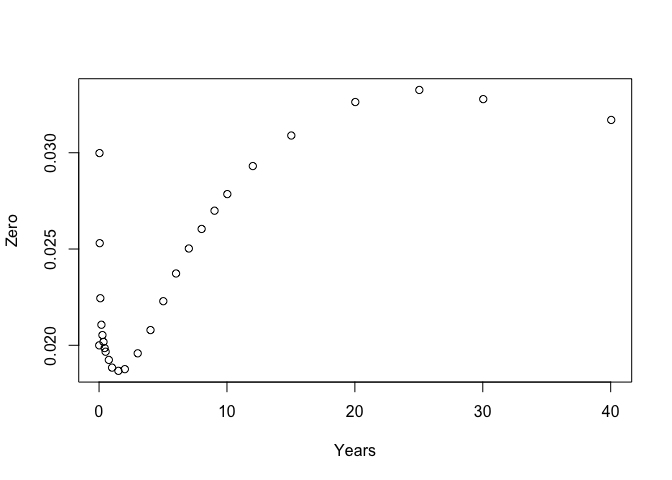
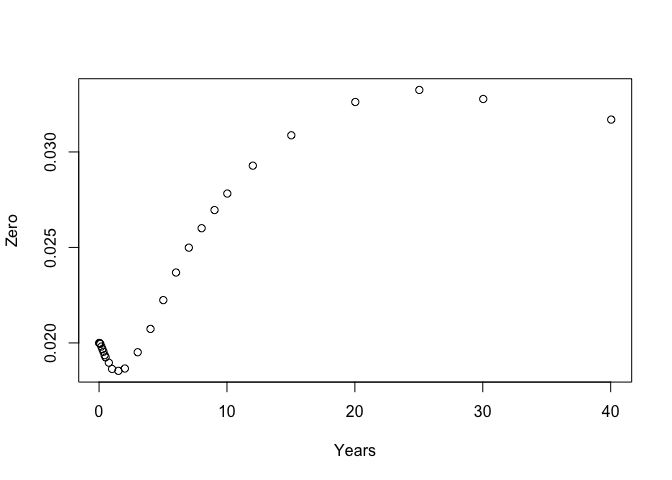
Rebuild README

diff --git a/README.md b/README.md
@@ -1,16 +1,26 @@
 
 <!-- README.md is generated from README.Rmd. Please edit that file -->
-fmbasics - Financial Market Building Blocks
-===========================================
 
-[![CRAN\_Status\_Badge](https://www.r-pkg.org/badges/version/fmbasics)](https://cran.r-project.org/package=fmbasics) [![Travis-CI Build Status](https://travis-ci.org/imanuelcostigan/fmbasics.svg?branch=master)](https://travis-ci.org/imanuelcostigan/fmbasics) [![AppVeyor Build Status](https://ci.appveyor.com/api/projects/status/github/imanuelcostigan/fmbasics?branch=master&svg=true)](https://ci.appveyor.com/project/imanuelcostigan/fmbasics) [![Coverage Status](https://img.shields.io/codecov/c/github/imanuelcostigan/fmbasics/master.svg)](https://codecov.io/github/imanuelcostigan/fmbasics?branch=master)
+# fmbasics - Financial Market Building Blocks
 
-Implements basic financial market objects like currencies, currency pairs, interest rates and interest rate indices. You will be able to use Benchmark instances of these objects which have been defined using their most common conventions or those defined by International Swap Dealer Association (ISDA, <https://www.isda.org>) legal documentation.
+[![CRAN\_Status\_Badge](https://www.r-pkg.org/badges/version/fmbasics)](https://cran.r-project.org/package=fmbasics)
+[![Travis-CI Build
+Status](https://travis-ci.org/imanuelcostigan/fmbasics.svg?branch=master)](https://travis-ci.org/imanuelcostigan/fmbasics)
+[![AppVeyor Build
+Status](https://ci.appveyor.com/api/projects/status/github/imanuelcostigan/fmbasics?branch=master&svg=true)](https://ci.appveyor.com/project/imanuelcostigan/fmbasics)
+[![Coverage
+Status](https://img.shields.io/codecov/c/github/imanuelcostigan/fmbasics/master.svg)](https://codecov.io/github/imanuelcostigan/fmbasics?branch=master)
 
-Basic objects
--------------
+Implements basic financial market objects like currencies, currency
+pairs, interest rates and interest rate indices. You will be able to use
+Benchmark instances of these objects which have been defined using their
+most common conventions or those defined by International Swap Dealer
+Association (ISDA, <https://www.isda.org>) legal documentation.
 
-You can create instances of key currencies and currency pairs (and of course create your own implementations):
+## Basic objects
+
+You can create instances of key currencies and currency pairs (and of
+course create your own implementations):
 
 ``` r
 library("fmdates")
@@ -51,10 +61,11 @@ to_maturity(as.Date("2017-01-20"), USDLIBOR(months(3)))
 #> [1] "2017-04-20"
 ```
 
-Interest rates and discount factors
------------------------------------
+## Interest rates and discount factors
 
-You can create and perform basic manipulation of interest rates and discount factors:
+You can create and perform basic manipulation of interest rates and
+discount
+factors:
 
 ``` r
 rr <- InterestRate(value = 0.01, compounding = Inf, day_basis = "act/365")
@@ -70,27 +81,41 @@ as_InterestRate(dd, compounding = Inf, day_basis = "act/360")
 #> <InterestRate> 7.088675%, CONTINUOUS, ACT/360
 ```
 
-Pricing objects
----------------
+## Pricing objects
 
-It is also possible to create and interpolate on zero coupon interest rate curves:
+It is also possible to create and interpolate on zero coupon interest
+rate curves:
 
 ``` r
 zc <- build_zero_curve()
 plot(zc$pillar_times, zc$pillar_zeros, xlab = 'Years', ylab = 'Zero')
 ```
 
-![](inst/README-unnamed-chunk-7-1.png)
+![](inst/README-unnamed-chunk-7-1.png)<!-- -->
 
 ``` r
 interpolate(zc, year_frac(zc$reference_date, ymd(20170331), "act/365"))
-#> [1] 0.0187453
+#> [1] 0.01858073
 interpolate_zeros(zc, ymd(20170331))
-#> <InterestRate> 1.87453%, CONTINUOUS, ACT/365
+#> <InterestRate> 1.858073%, CONTINUOUS, ACT/365
 interpolate_fwds(zc, ymd(20170331), ymd(20170630))
-#> <InterestRate> 1.837274%, SIMPLE, ACT/365
+#> <InterestRate> 1.837645%, SIMPLE, ACT/365
 interpolate_dfs(zc, ymd(20170331), ymd(20170630))
-#> <DiscountFactor> 0.995440285935839, 2017-03-31--2017-06-30
+#> <DiscountFactor> 0.995439369532595, 2017-03-31--2017-06-30
 ```
 
-Further details can be found in this package's help pages and vignettes (`vignette(package = "fmbasics")`)
+Basic support for creating and interpolating volatility surfaces is
+possible:
+
+``` r
+vs <- build_vol_surface()
+at <- tibble::tibble(
+ maturity = as.Date(c("2020-03-31", "2021-03-31")),
+ smile = c(0.40, 0.80)
+)
+interpolate(vs, at)
+#> [1] 0.6001969 0.6042421
+```
+
+Further details can be found in this package’s help pages and vignettes
+(`vignette(package = "fmbasics")`)
